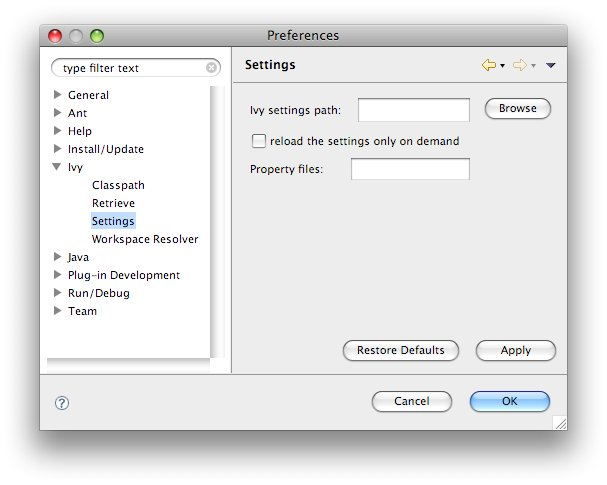
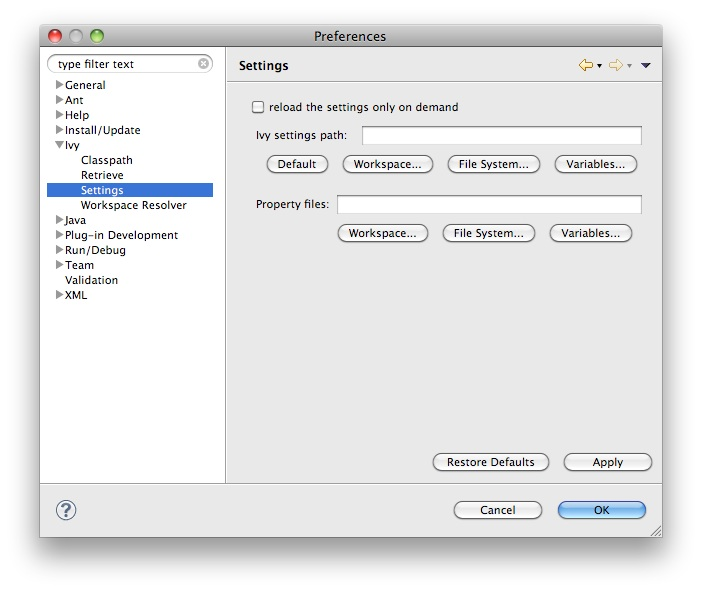
Doc updated:  - screenshots updated to reflect the new UI  - add some doc about Eclipse variables management  - add some doc about the launch configuration
git-svn-id: http://svn.apache.org/repos/asf/ant@895430 13f79535-47bb-0310-9956-ffa450edef68

Changed region(s): [[0.0593, 0.0309, 0.9489, 0.9278], [0.3558, 0.7423, 0.3855, 0.7732]]

diff --git a/ivy/ivyde/trunk/doc/cpc/launch.html b/ivy/ivyde/trunk/doc/cpc/launch.html
@@ -1,0 +1,74 @@
+<!DOCTYPE HTML PUBLIC "-//W3C//DTD HTML 4.01//EN" "http://www.w3.org/TR/html4/strict.dtd">
+<!--
+   Licensed to the Apache Software Foundation (ASF) under one
+   or more contributor license agreements.  See the NOTICE file
+   distributed with this work for additional information
+   regarding copyright ownership.  The ASF licenses this file
+   to you under the Apache License, Version 2.0 (the
+   "License"); you may not use this file except in compliance
+   with the License.  You may obtain a copy of the License at
+
+     http://www.apache.org/licenses/LICENSE-2.0
+
+   Unless required by applicable law or agreed to in writing,
+   software distributed under the License is distributed on an
+   "AS IS" BASIS, WITHOUT WARRANTIES OR CONDITIONS OF ANY
+   KIND, either express or implied.  See the License for the
+   specific language governing permissions and limitations
+   under the License.    
+-->
+<html>
+<head>
+	<META HTTP-EQUIV="Content-Type" CONTENT="text/html; charset=ISO-8859-1">
+	<script type="text/javascript">var xookiConfig = {level: 1};</script>	
+	<script type="text/javascript" src="../xooki/xooki.js"></script>
+</head>
+<body>
+	<textarea id="xooki-source">
+The IvyDE classpath container can also be used in the launch configuration, run or debug. The container will be used because it is included in the default classpath of you project, or by adding it yourself to your launch classpath.
+
+<h1>In the project's classpath</h1>
+
+It is the simpler configuration, configuration that you implicetely have when you do a "Run As..." on a Java class. The container you see in the launch classpath is actually the one you have in your project in the package explorer.
+
+<center><img src="../images/launch_default.jpg"></img></center>
+
+It is the same when launching unit tests. Idem for the debug mode.
+
+But having the compile classpath might not be appropriate for some launch configuration, so you will have to manage it yourself.
+
+<h1>Managing manually</h1>
+
+You want to have more control over the classpath of your launch configuration, so you will have to edit it, and manage the IvyDE container in there.
+
+Creating a launch configuration, you will get the default classpath as above. So the first step is to remove it. And you probably want to readd your project in the user entries. Then to add an IvyDE container, choose "Advanced":
+
+<center><img src="../images/launch_advanced.jpg"></img></center>
+
+Choose "Add Library":
+
+<center><img src="../images/launch_addlib.jpg"></img></center>
+
+Choose "IvyDE Managed dependencies":
+
+<center><img src="../images/launch_addivyde.jpg"></img></center>
+
+Select the absolute path to your ivy.xml and select the proper configurations:
+
+<center><img src="../images/launch_manualconf.jpg"></img></center>
+
+<b>Note:</b> in the launch configuration it is not possible to edit or launch a resolve manually on the container you are creating. But it is possible to launch a resolve before each launch. It is recommended to do so if the resolve process is not too long. Otherwise you will have to recreate the container each time you change something in the ivy.xml for instance.
+
+To enable the resolve before each launch, go into the "Advanced" tab and select "Resolve before launch".
+
+<center><img src="../images/launch_resolve.jpg"></img></center>
+
+Click "Finish" and see the result:
+
+<center><img src="../images/launch_custom.jpg"></img></center>
+
+
+</textarea>
+<script type="text/javascript">xooki.postProcess();</script>
+</body>
+</html>

diff --git a/ivy/ivyde/trunk/doc/preferences.html b/ivy/ivyde/trunk/doc/preferences.html
@@ -33,7 +33,8 @@ The global configuration can be found in the preferences of Eclipse (menu Window
 <center><img src="images/pref.jpg"/></center>
 
 <ul>
-	<li><u>On Eclipse startup:</u> it specifies what IvyDE should do in every project when Eclipse is starting up</li>
+     <li><u>On Eclipse startup:</u> it specifies what IvyDE should do in every project when Eclipse is starting up</li>
+     <li><u>On Ivy file change:</u> each time Eclipse detects a change on an ivy.xml file configured in an IvyDE container, via a save in the editor, a refresh, or a team/update, IvyDE can trigger resolve, or not.</li>
 	<li><u>Organisation:</u> your company name for ivy editor completion </li>
 	<li><u>Organisation URL:</u> your company web site url for ivy editor completion </li>
 </ul>
@@ -44,6 +45,7 @@ The global configuration can be found in the preferences of Eclipse (menu Window
 
 <ul>
 	<li><u>Resolve dependencies in workpace:</u> IvyDE can try to make dependencies between project more than to jars into a repository. See the <a href="cpc/workspace.html">documentation</a> for further info.</li>
+        <li><u>Resolve before launch:</u> an IvyDE container can be used in the classpath of a launch configuration; and the container can be resolved on each launch. See also the documentation about <a href="cpc/launch.html">launch configurations</a></li>
 	<li><u>Order of the classpath entries:</u> by default in the classpath container the entries are ordered by order of declaration in the ivy.xml. When there are many entries, it could be useful to have them ordered alphabetically so that you can find them faster.</li>
 	<li><u>Accepted types:</u> a comma separated list of extensions which will make IvyDE add the artifact to the classpath</li>
 	<li><u>Sources types:</u> a comma separated list of Ivy "type" which will make IvyDE consider them as sources</li>
@@ -69,8 +71,9 @@ The global configuration can be found in the preferences of Eclipse (menu Window
 <center><img src="images/pref_settings.jpg"/></center>
 
 <ul>
-	<li><u>Ivy settings URL:</u> specify here the path to your ivy settings file. Leave it blank to use Ivy default resolvers</li>
 	<li><u>Reload the settings only on demand:</u> by default IvyDE will parse the ivysettings each times it needs it (each resolve, refresh, clean cache or completion in the ivy editor). For remote ivysettings this can slow down dramatically the UI, so it is possible to make IvyDE keep the settings in cache and only reload it via the context menu on the container)</li>
+	<li><u>Ivy settings path:</u> specify here the path to your ivy settings file. Leave it blank to use Ivy default resolvers.
+See also the documentation about <a href="eclipsevar.html">Eclipse variables</a></li>
 	<li><u>Property files:</u> this is a comma separated ist if java properties files which are loaded along with the settings.</li>
 </ul>
 
@@ -81,6 +84,7 @@ The global configuration can be found in the preferences of Eclipse (menu Window
 <ul>
 	<li><u>closing trigger resolve:</u> closing a project which has the workspace resolver enabled will trigger a resolve on every project that depends on it.</li>
 	<li><u>opening trigger resolve:</u> when a project is opened IvyDE will trigger the resolve of every other project which has the workspace resolver enabled</li>
+        <li><u>Ignore version when resolving workspace projects:</u> in you are sure of what you are doing, this option will make the workspace resolver not taking into account the version specified in the ivy.xml.</li>
 </ul>
 
 

diff --git a/ivy/ivyde/trunk/doc/eclipsevar.html b/ivy/ivyde/trunk/doc/eclipsevar.html
@@ -1,0 +1,49 @@
+<!DOCTYPE HTML PUBLIC "-//W3C//DTD HTML 4.01//EN" "http://www.w3.org/TR/html4/strict.dtd">
+<!--
+   Licensed to the Apache Software Foundation (ASF) under one
+   or more contributor license agreements.  See the NOTICE file
+   distributed with this work for additional information
+   regarding copyright ownership.  The ASF licenses this file
+   to you under the Apache License, Version 2.0 (the
+   "License"); you may not use this file except in compliance
+   with the License.  You may obtain a copy of the License at
+
+     http://www.apache.org/licenses/LICENSE-2.0
+
+   Unless required by applicable law or agreed to in writing,
+   software distributed under the License is distributed on an
+   "AS IS" BASIS, WITHOUT WARRANTIES OR CONDITIONS OF ANY
+   KIND, either express or implied.  See the License for the
+   specific language governing permissions and limitations
+   under the License.    
+-->
+<html>
+<head>
+	<META HTTP-EQUIV="Content-Type" CONTENT="text/html; charset=ISO-8859-1">
+	<script type="text/javascript">var xookiConfig = {level: 0};</script>	
+	<script type="text/javascript" src="xooki/xooki.js"></script>
+</head>
+<body>
+	<textarea id="xooki-source">
+In Eclipse there is a <a href="http://help.eclipse.org/galileo/index.jsp?topic=/org.eclipse.jdt.doc.user/reference/preferences/run-debug/ref-string_substitution.htm">string substitution mecanism</a>. This feature allows you to specify a path location that can be shared between developpers.
+
+IvyDE use it to find the ivysettings.xml and properties files in both the <a href="preferences.html#settings">glogal preference page</a> and the <a href="cpc/create.html#localconf">project specific one</a>.
+
+Using the "Workspace..." button will open a windows to choose a file in the workspace. Then IvyDE will automatically fill the field with the proper variable.
+
+<center><img src="images/eclipsevar_workspace.jpg" /></center>
+
+Using the "File System..." button will allow you to choose a file in the file system. But then this path will not be portable.
+
+And you can choose to depend on the Eclipse variable system by clicking on "Variable...".
+
+<center><img src="images/eclipsevar_variables.jpg" /></center>
+
+<b>Backward compatibility</b>
+
+IvyDE used to support the <tt>project://projectName/path/to/file.ext</tt> protocol. It sill does but it will be automatically changed in the saved settings to the Eclipse variable way of defining this path: <tt>${workspace_loc:projectName/path/to/file.ext}</tt>
+
+</textarea>
+<script type="text/javascript">xooki.postProcess();</script>
+</body>
+</html>

diff --git a/ivy/ivyde/trunk/doc/cpc/create.html b/ivy/ivyde/trunk/doc/cpc/create.html
@@ -33,8 +33,10 @@ The standard way to add the IvyDE classpath container is to manipulate the Eclip
 <li>Select "IvyDE Managed Dependencies" item.<br/><br/><center><img src="../images/add_lib.jpg"/></center><br/><br/></li>
 <li>Select an ivy.xml file or a <a href="maven.html">maven pom.xml</a> and the desired configurations.<br/><br/><center><img src="../images/ivy_file_def.jpg"/></center><br/><br/></li>
 </ul>
-<li><a name="localconf"></a>You then might want to use specific settings for your project, a configuration different from the <a href="../preferences.html">global one</a>. For the ivy settings, click on the "Enable project specific settings" check box.<br/><br/><center><img src="../images/project_specific_settings.jpg"/></center></li>
-Your class path is set and you can see all dependencies in one unique folder of the package explorer (folder name = &amp;amp;lt;ivy file name&amp;amp;gt;[&amp;amp;lt;configuration&amp;amp;gt;]).
+<li><a name="localconf"></a>You then might want to use specific settings for your project, a configuration different from the <a href="../preferences.html">global one</a>. For the ivy settings, click on the "Enable project specific settings" check box. See also the documentation about <a href="../eclipsevar.html">Eclipse variables</a>.
+
+<center><img src="../images/project_specific_settings.jpg"/></center></li>
+Your class path is set and you can see all dependencies in one unique folder of the package explorer (folder name = ivy-file-name[conf1,conf2]).
 
 
 <center><img src="../images/cp_node.jpg"></center>

diff --git a/ivy/ivyde/trunk/doc/cpc/workspace.html b/ivy/ivyde/trunk/doc/cpc/workspace.html
@@ -40,6 +40,22 @@ To enable resolution in the workspace, go into the advanced configuration panel 
     <li>the <i>status</i> should match the required one: a dependency with <i>latest.integration</i> will only match if there is <i>status="interation"</i> in the info of the dependant module</li>
 </ul>
 
+Having two projects "A" and "B" configured to use IvyDE and the workspace resolver, here is the expected resolved dependencies:
+
+<table class="ant">
+<tr><th>A dependency on B</th><th>B declared revision</th><th>result</th></tr>
+<tr><td>latest.integration</td><td>1.2</td><td>B wired on A</td></tr>
+<tr><td>1.2</td><td>1.2</td><td>B wired on A</td></tr>
+<tr><td>[1.2,1.3)</td><td>1.2</td><td>B wired on A</td></tr>
+<tr><td>1.0</td><td>1.2</td><td>no project wiring</td></tr>
+<tr><td>latest.integration</td><td><i>none</i></td><td>B wired on A</td></tr>
+<tr><td>1.2</td><td><i>none</i></td><td>B wired on A</td></tr>
+<tr><td>[1.2,1.3)</td><td><i>none</i></td><td>B wired on A</td></tr>
+<tr><td>latest.integration</td><td>$version</td><td>no project wiring</td></tr>
+<tr><td>1.2</td><td>$version</td><td>no project wiring</td></tr>
+<tr><td>[1.2,1.3)</td><td>$version</td><td>no project wiring</td></tr>
+</table>
+
 </textarea>
 <script type="text/javascript">xooki.postProcess();</script>
 </body>

diff --git a/ivy/ivyde/trunk/doc/cpc/maven.html b/ivy/ivyde/trunk/doc/cpc/maven.html
@@ -100,14 +100,29 @@ Using the m2compatible attribute, you can benefit from Maven2 repository compati
 
 <b> - On the pom.xml file, open the context menu and click on "Add Ivy Library...":</b>
 
-<ul>
-    <li>Select "Enable project specific settings" and set the "Ivy setting path" to: <tt>project:///ivysettings.xml</tt> </li>
-    <li>Select the configuration <tt>compile</tt> and <tt>runtime</tt></li>
-</ul>
+<b> - Select the configuration <tt>compile</tt> and <tt>runtime</tt></b>
 
 <center>
     <img src="../images/maven2classpath1.jpg"/>
 </center>   
+
+<b> - Go into the "Settings" tab, select "Enable project specific settings" and click on the "Workspace..." button</b>
+
+<center>
+    <img src="../images/maven2classpath1_settings.jpg"/>
+</center>   
+
+<b> - Choose the ivysettings.xml file in your project<b>
+
+<center>
+    <img src="../images/maven2classpath1_workspacevar.jpg"/>
+</center>
+
+<b> - click "Finish"</b>
+
+<center>
+    <img src="../images/maven2classpath1_done.jpg"/>
+</center>
 
 <b> - That's all ! Your IvyDE class path container gets all dependencies even those that were transitive to the commons-httpclient module !</b>
 

diff --git a/ivy/ivyde/trunk/doc/install.html b/ivy/ivyde/trunk/doc/install.html
@@ -25,7 +25,6 @@
 </head>
 <body>
 	<textarea id="xooki-source">
-
 <h1><a name="latest"></a>Install the last release via Internet</h1>
 
 For most user who have access to the internet it is simpler to install the latest release from the IvyDE updatesite. So just look out there:
@@ -37,8 +36,8 @@ http://ant.apache.org/ivy/ivyde/download.cgi
 
 So you should have the zip distribution of IvyDE in which you should find these files:
 <ul>
-<li>features/org.apache.ivyde.feature_2.0.0.final-XXXX.jar</li>
-<li>plugins/org.apache.ivyde.eclipse_2.0.0.final-XXXX.jar</li>
+<li>features/org.apache.ivyde.feature_2.1.0.XXXX.jar</li>
+<li>plugins/org.apache.ivyde.eclipse_2.1.0.XXXX.jar</li>
 </ul>
 
 You can then install them by copying them respectively in the $ECLIPSE_HOME/features and the $ECLIPSE_HOME/plugins:

diff --git a/ivy/ivyde/trunk/doc/cp_container.html b/ivy/ivyde/trunk/doc/cp_container.html
@@ -33,6 +33,7 @@ So you probably want to:
     <li>Launch the <a href="cpc/resolve.html">resolve</a> of the dependencies</li>
     <li><a href="cpc/retrieve.html">Retrieve</a> the dependencies in your project</li>
     <li>Resolve dependencies within the Eclipse <a href="cpc/workspace.html">workspace</a></li>
+    <li><a href="cpc/launch.html">Launch</a> software or unit tests with a classpath managed by IvyDE</li>
     <li>Use IvyDE with <a href="cpc/maven.html">maven pom.xml</a></li>
     <li>Use IvyDE in concert with <a href="cpc/wtp.html">WTP</a></li>
 </ul>

diff --git a/ivy/ivyde/trunk/doc/cpc/resolve.html b/ivy/ivyde/trunk/doc/cpc/resolve.html
@@ -36,6 +36,15 @@ You can also trigger a resolve (not a refresh!) of every IvyDE classpath contain
 
 <center><img src="../images/resolveall.jpg"></center><br/>
 
+And to launch a resolve on a specified selection of projects:
+<ul>
+<li>select the projects you want to resolve in the package view,</li>
+<li>open the context menu with a right click</li>
+<li>Choose <b>Ivy > Resolve</b></li>
+</ul>
+
+<center><img src="../images/resolve_contextmenu.jpg"></center><br/>
+
 </textarea>
 <script type="text/javascript">xooki.postProcess();</script>
 </body>

diff --git a/ivy/ivyde/trunk/doc/console.html b/ivy/ivyde/trunk/doc/console.html
@@ -38,6 +38,10 @@ The colors in the console correspond to the different log levels. Here is the de
 <li>Warn: orange</li>
 <li>Error: red</li>
 </ul>
+
+To change the level of logging in the console, use the button in the view:
+<br/>
+<center><img src="images/ivy_console_debug.jpg"></center><br/>
 </textarea>
 <script type="text/javascript">xooki.postProcess();</script>
 </body>
